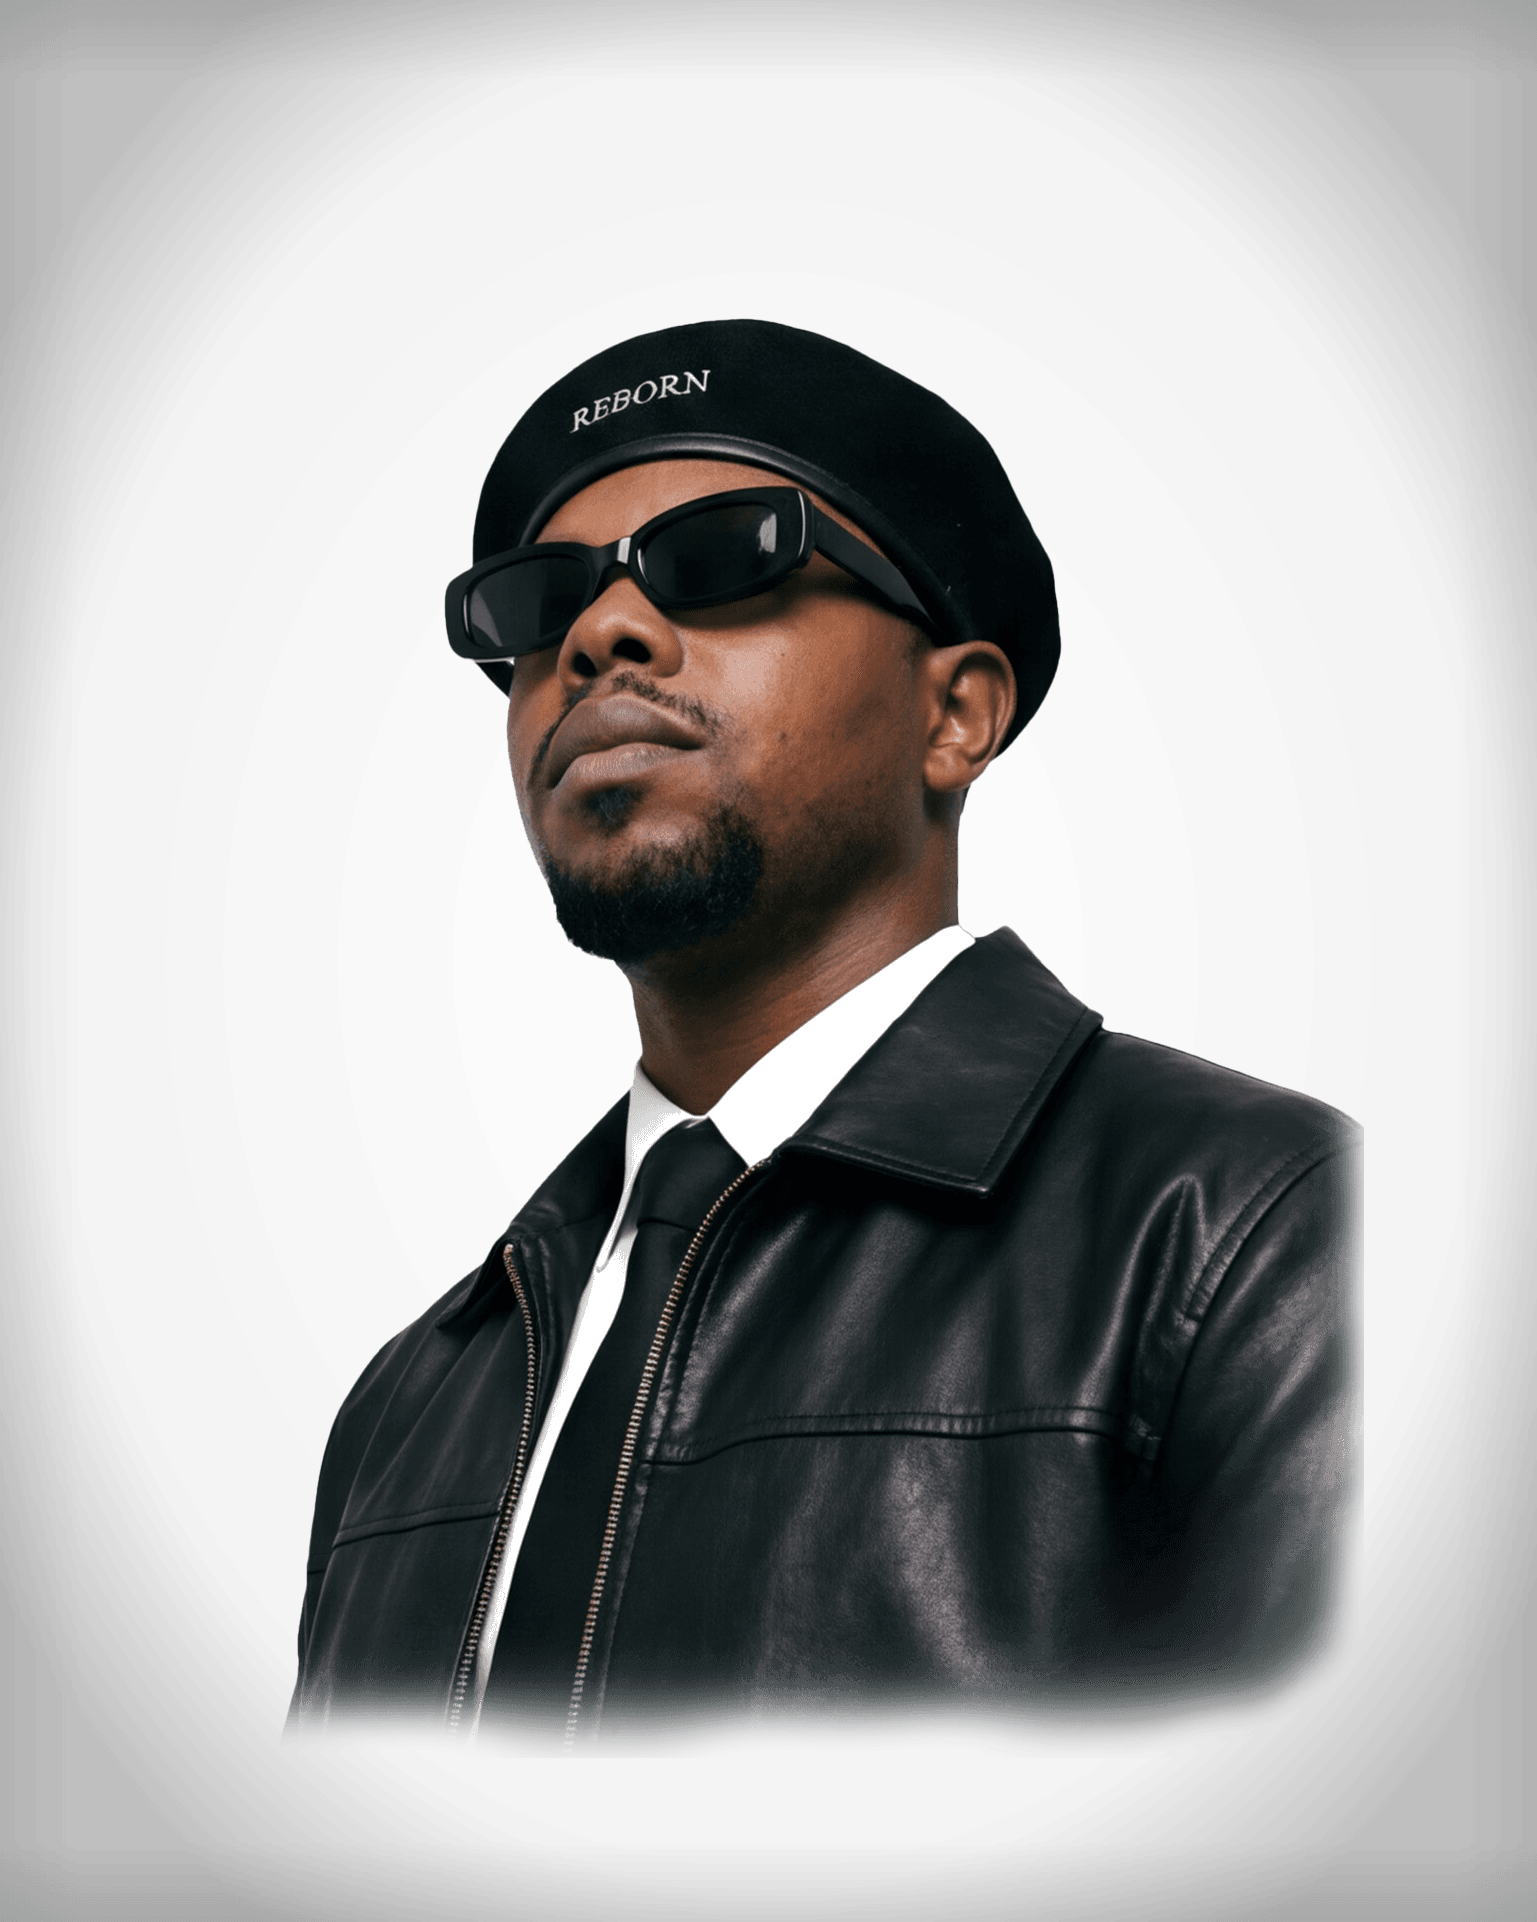
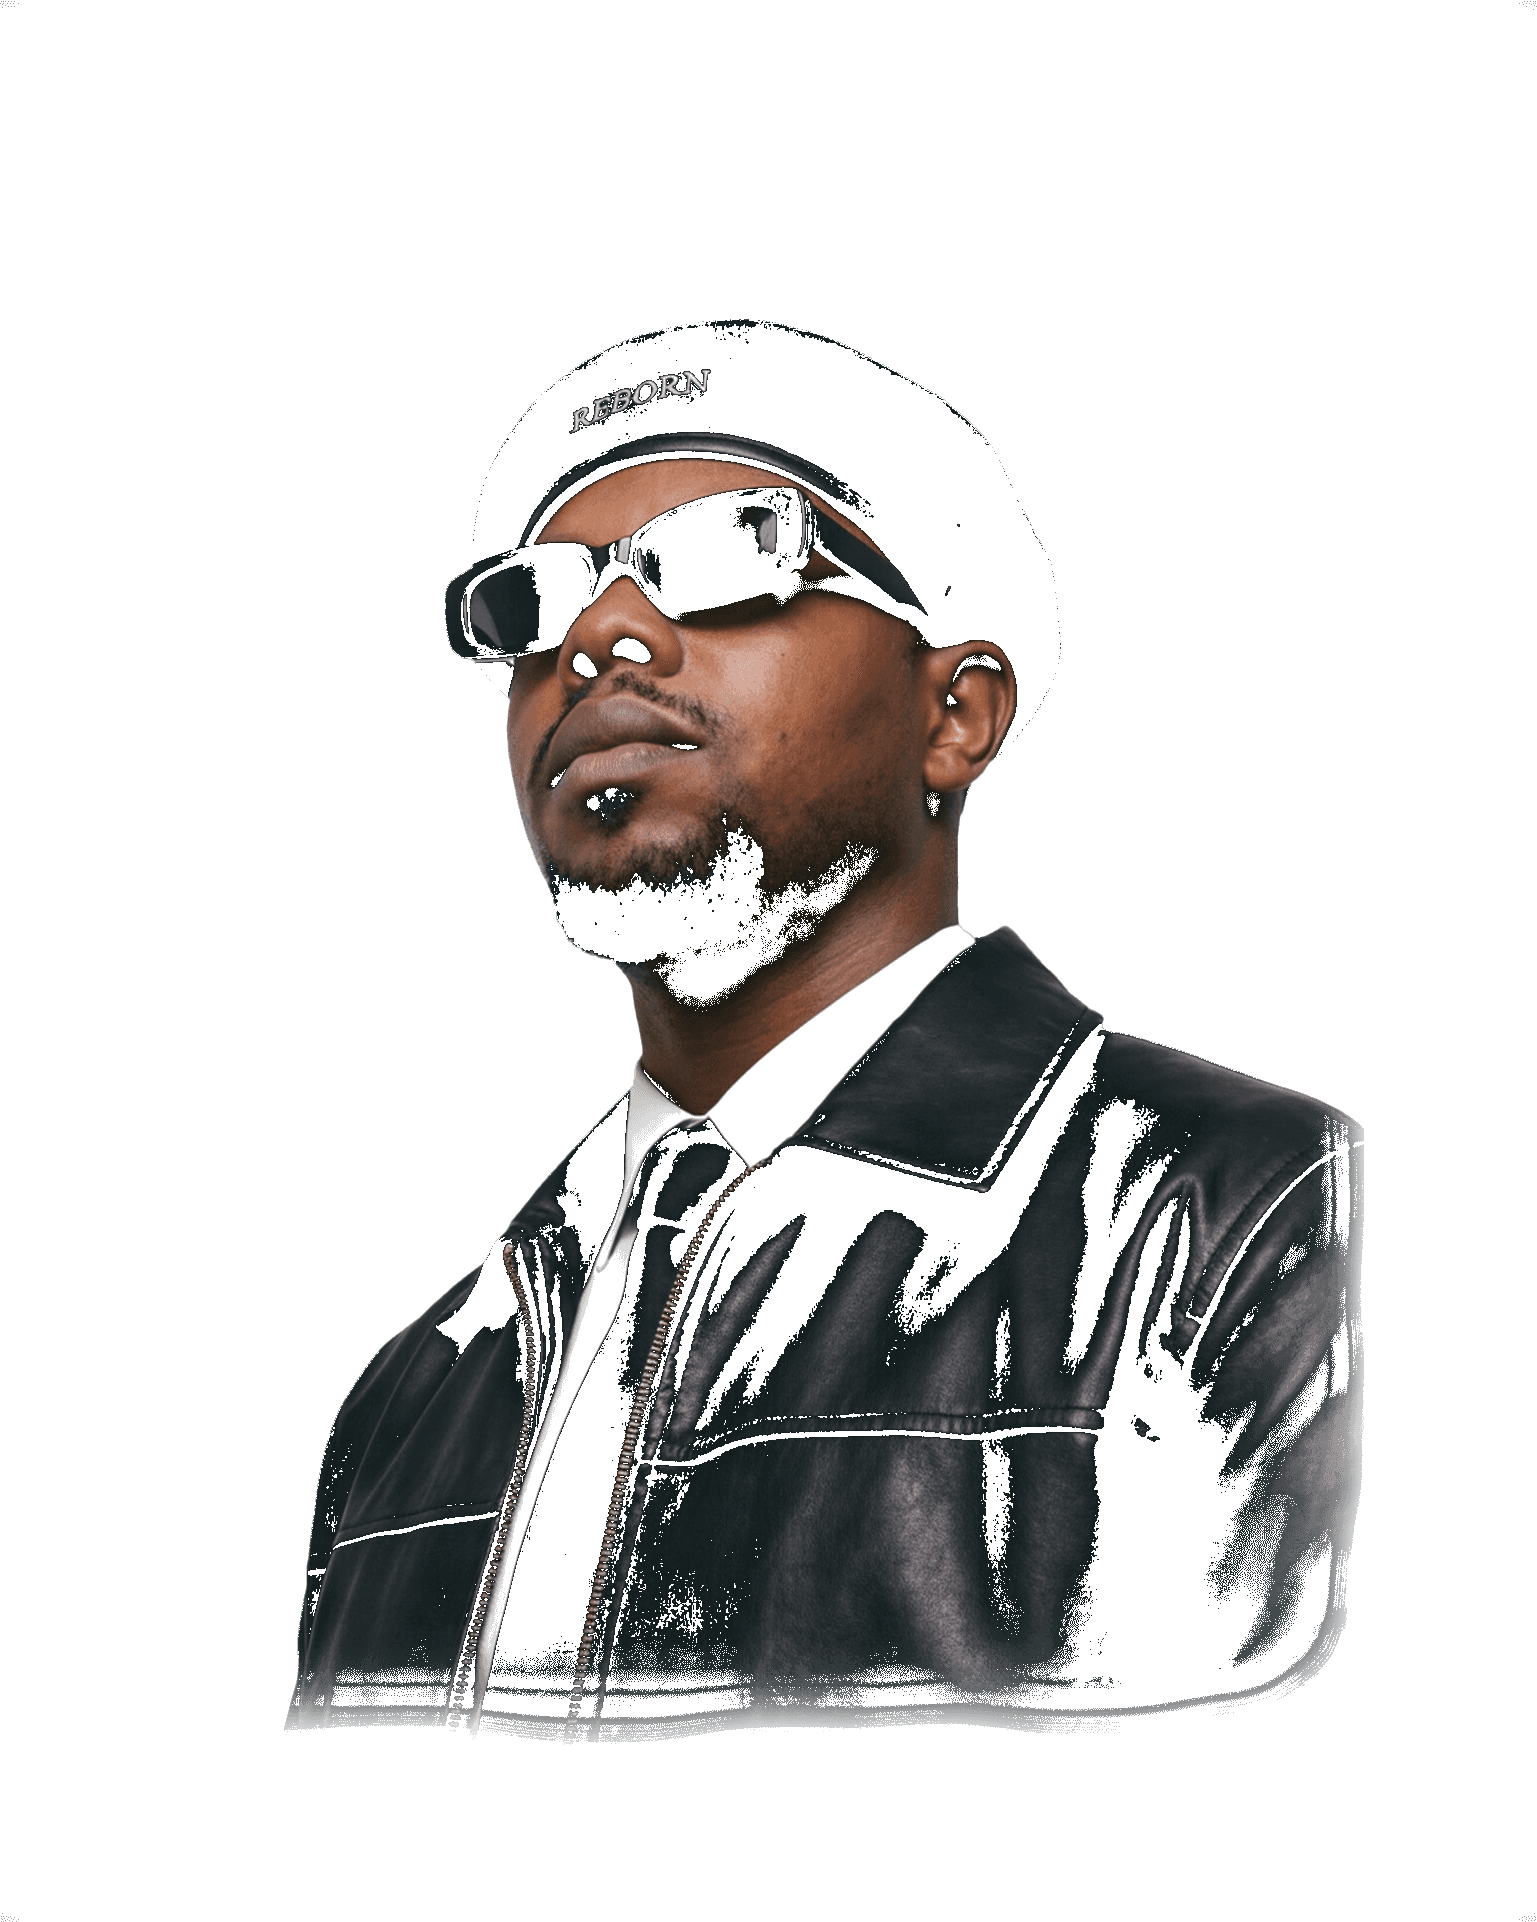
feat: SVG assets integration + improved background removal
SVG Assets Integration:
- Created /public/assets/icons/ directory
- Copied 10 essential SVG files from # Assets para web\SVG:
  * Logo files: 01_logo_mk_blanco_principal.svg, 02_logo_horizontal_blanco.svg
  * Icons: camera, location, mail, whatsapp, instagram
  * Separators: bracket, arrow
- Created svg-assets.css (220 lines) with proper sizing containers:
  * Logo sizes: main, horizontal, small
  * Icon sizes: sm, md, lg, xl
  * Container styling with proper alignment
  * Responsive breakpoints (768px, 640px)
  * Separators and badges

Container Features:
- Flexbox containers for proper alignment
- clamp() for responsive sizing
- Min/max height/width to prevent deformation
- Color inheritance for easy theming
- Touch targets: 44px minimum

Background Removal Improved:
- 28_firma_maikel.png: Aggressive background removal (tolerance=50)
- the303-netflix-3.png: Aggressive background removal (tolerance=60)
- Now transparent instead of white backgrounds

New files:
- public/css/svg-assets.css

Modified files:
- public/index.html (added CSS link)
- public/assets/overlays/28_firma_maikel.png
- public/img/the303-netflix-3.png

diff --git a/public/css/svg-assets.css b/public/css/svg-assets.css
@@ -1,0 +1,239 @@
+/* ══════════════════════════════════════════════════════════════════════════════ */
+/* SVG ASSETS — Proper sizing and container styling for SVG icons/logos            */
+/* ══════════════════════════════════════════════════════════════════════════════ */
+
+/* ── LOGO CONTAINER ── */
+.logo,
+.logo-container {
+  display: flex;
+  align-items: center;
+  justify-content: center;
+  width: auto;
+  height: auto;
+  flex-shrink: 0;
+}
+
+.logo svg,
+.logo-container svg {
+  width: 100%;
+  height: 100%;
+  display: block;
+}
+
+/* ── LOGO SIZES ── */
+.logo-main {
+  width: clamp(40px, 8vw, 60px);
+  height: clamp(40px, 8vw, 60px);
+}
+
+.logo-horizontal {
+  width: clamp(120px, 15vw, 180px);
+  height: auto;
+  min-height: 40px;
+}
+
+.logo-small {
+  width: 32px;
+  height: 32px;
+}
+
+/* ── ICON CONTAINER ── */
+.icon,
+.icon-container {
+  display: inline-flex;
+  align-items: center;
+  justify-content: center;
+  flex-shrink: 0;
+  color: currentColor;
+}
+
+.icon svg,
+.icon-container svg {
+  width: 100%;
+  height: 100%;
+  display: block;
+  fill: currentColor;
+}
+
+/* ── ICON SIZES ── */
+.icon-sm {
+  width: 16px;
+  height: 16px;
+}
+
+.icon-md {
+  width: 24px;
+  height: 24px;
+}
+
+.icon-lg {
+  width: 32px;
+  height: 32px;
+}
+
+.icon-xl {
+  width: 48px;
+  height: 48px;
+}
+
+/* ── BADGE CONTAINER ── */
+.badge-container {
+  display: inline-flex;
+  align-items: center;
+  justify-content: center;
+  gap: 8px;
+  padding: 8px 16px;
+  border-radius: 999px;
+  background: rgba(255, 255, 255, 0.05);
+  border: 1px solid rgba(255, 255, 255, 0.2);
+  backdrop-filter: blur(8px);
+}
+
+.badge-container .icon {
+  width: 6px;
+  height: 6px;
+  animation: pulse 2s ease-in-out infinite;
+}
+
+@keyframes pulse {
+  0%, 100% { opacity: 1; }
+  50% { opacity: 0.5; }
+}
+
+/* ── SEPARATOR CONTAINER ── */
+.separator,
+.separator-container {
+  display: flex;
+  align-items: center;
+  justify-content: center;
+  width: 100%;
+  margin: clamp(20px, 4vw, 40px) 0;
+  flex-shrink: 0;
+}
+
+.separator svg,
+.separator-container svg {
+  display: block;
+  width: auto;
+  height: auto;
+  max-width: 100%;
+}
+
+.separator-bracket {
+  width: clamp(40px, 8vw, 80px);
+  height: auto;
+}
+
+.separator-arrow {
+  width: clamp(60px, 10vw, 100px);
+  height: auto;
+}
+
+/* ── NAVIGATION LOGO ── */
+nav .logo {
+  width: clamp(35px, 6vw, 50px);
+  height: clamp(35px, 6vw, 50px);
+}
+
+/* ── FOOTER LOGO ── */
+footer .logo {
+  width: clamp(100px, 12vw, 150px);
+  height: auto;
+  min-height: 30px;
+}
+
+/* ── CONTACT ICONS ── */
+.contact-icon {
+  display: inline-flex;
+  align-items: center;
+  justify-content: center;
+  width: 44px;
+  height: 44px;
+  flex-shrink: 0;
+}
+
+.contact-icon svg {
+  width: 28px;
+  height: 28px;
+  fill: currentColor;
+}
+
+/* ── RESPONSIVE ADJUSTMENTS ── */
+
+@media (max-width: 768px) {
+  .logo-main {
+    width: clamp(35px, 6vw, 45px);
+    height: clamp(35px, 6vw, 45px);
+  }
+
+  .logo-horizontal {
+    width: clamp(100px, 12vw, 140px);
+  }
+
+  .separator {
+    margin: clamp(16px, 3vw, 28px) 0;
+  }
+
+  nav .logo {
+    width: clamp(30px, 5vw, 40px);
+    height: clamp(30px, 5vw, 40px);
+  }
+
+  footer .logo {
+    width: clamp(80px, 10vw, 120px);
+  }
+}
+
+@media (max-width: 640px) {
+  .logo-main {
+    width: 32px;
+    height: 32px;
+  }
+
+  .logo-horizontal {
+    width: clamp(80px, 10vw, 120px);
+  }
+
+  .separator {
+    margin: clamp(12px, 2vw, 20px) 0;
+  }
+
+  nav .logo {
+    width: 28px;
+    height: 28px;
+  }
+
+  footer .logo {
+    width: clamp(70px, 8vw, 100px);
+  }
+
+  .contact-icon {
+    width: 40px;
+    height: 40px;
+  }
+
+  .contact-icon svg {
+    width: 24px;
+    height: 24px;
+  }
+}
+
+/* ── COLOR OVERRIDES ── */
+
+/* Para iconos que necesitan color específico */
+.icon-accent svg {
+  fill: var(--color-accent);
+  color: var(--color-accent);
+}
+
+.icon-white svg {
+  fill: #ffffff;
+  color: #ffffff;
+}
+
+.icon-secondary svg {
+  fill: var(--color-text-secondary);
+  color: var(--color-text-secondary);
+}
+
+/* ══════════════════════════════════════════════════════════════════════════════ */

diff --git a/public/index.html b/public/index.html
@@ -40,6 +40,7 @@
   <link rel="stylesheet" href="/css/about-section-enhancement.css">
   <link rel="stylesheet" href="/css/calendar-dark-theme.css">
   <link rel="stylesheet" href="/css/services-cards.css">
+  <link rel="stylesheet" href="/css/svg-assets.css">
 
   <script type="application/ld+json">
   {